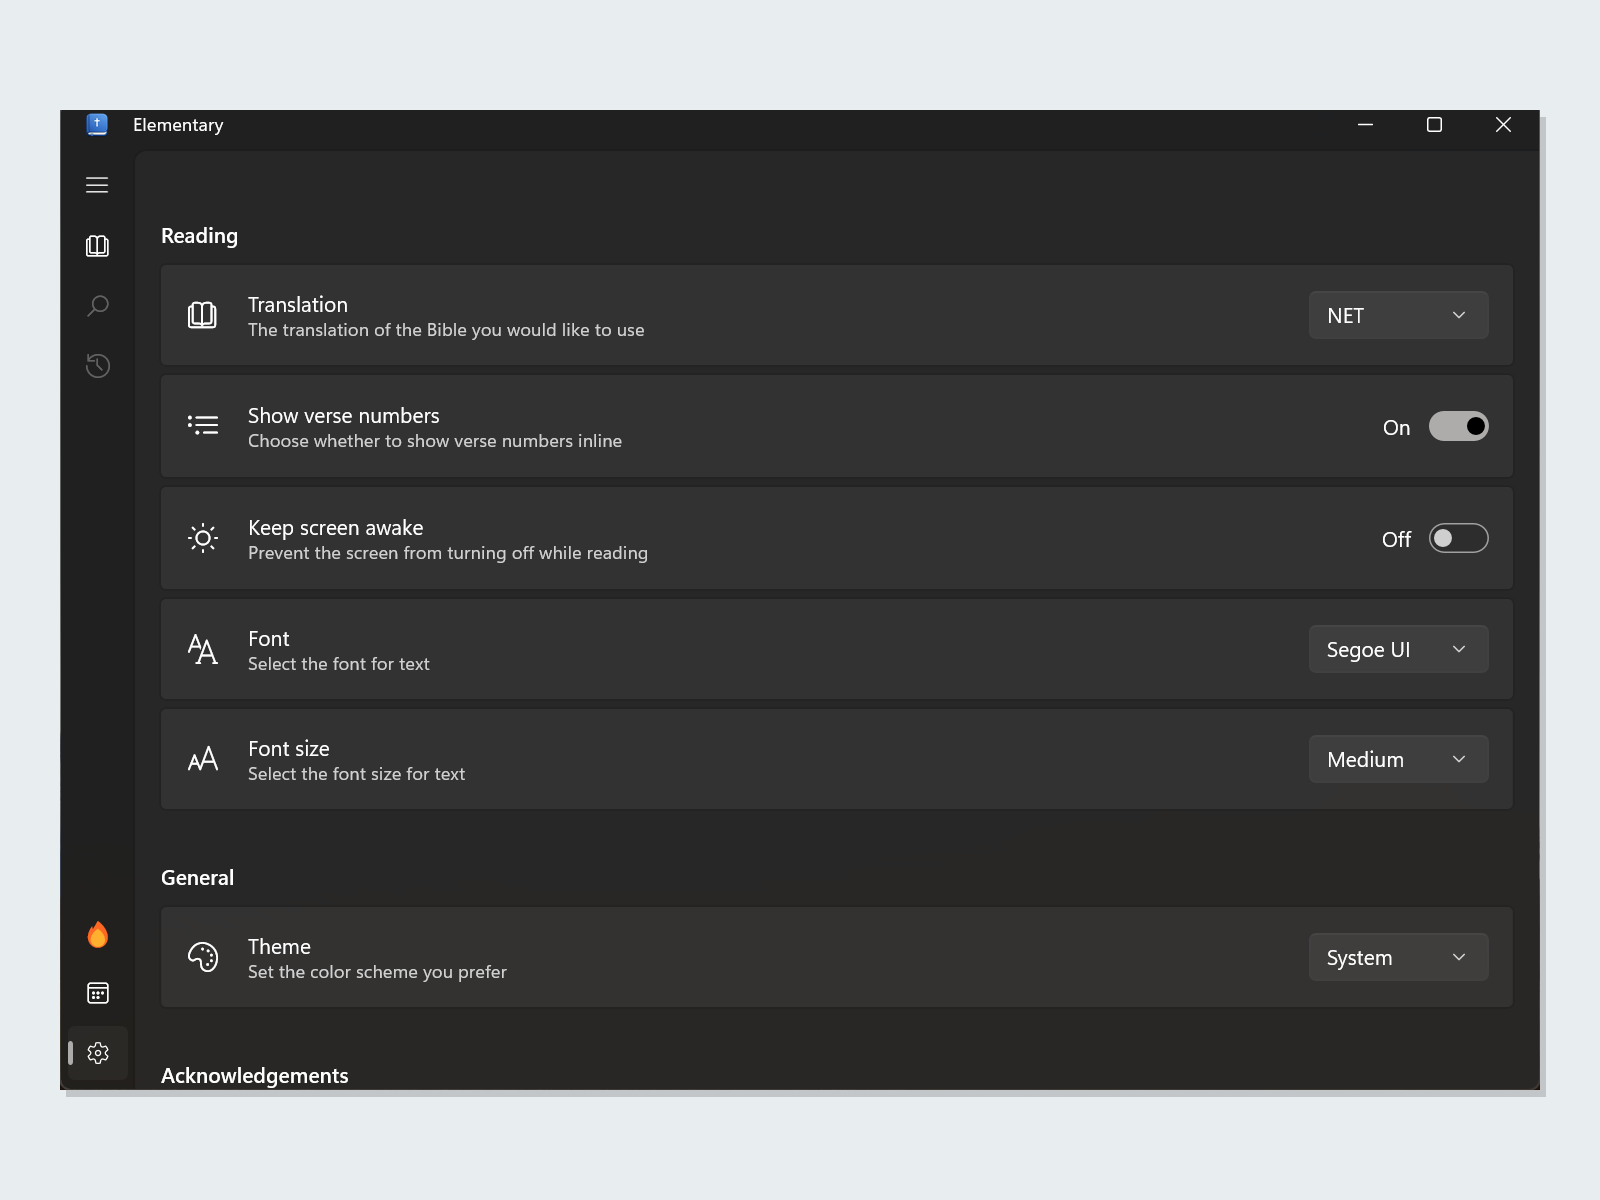
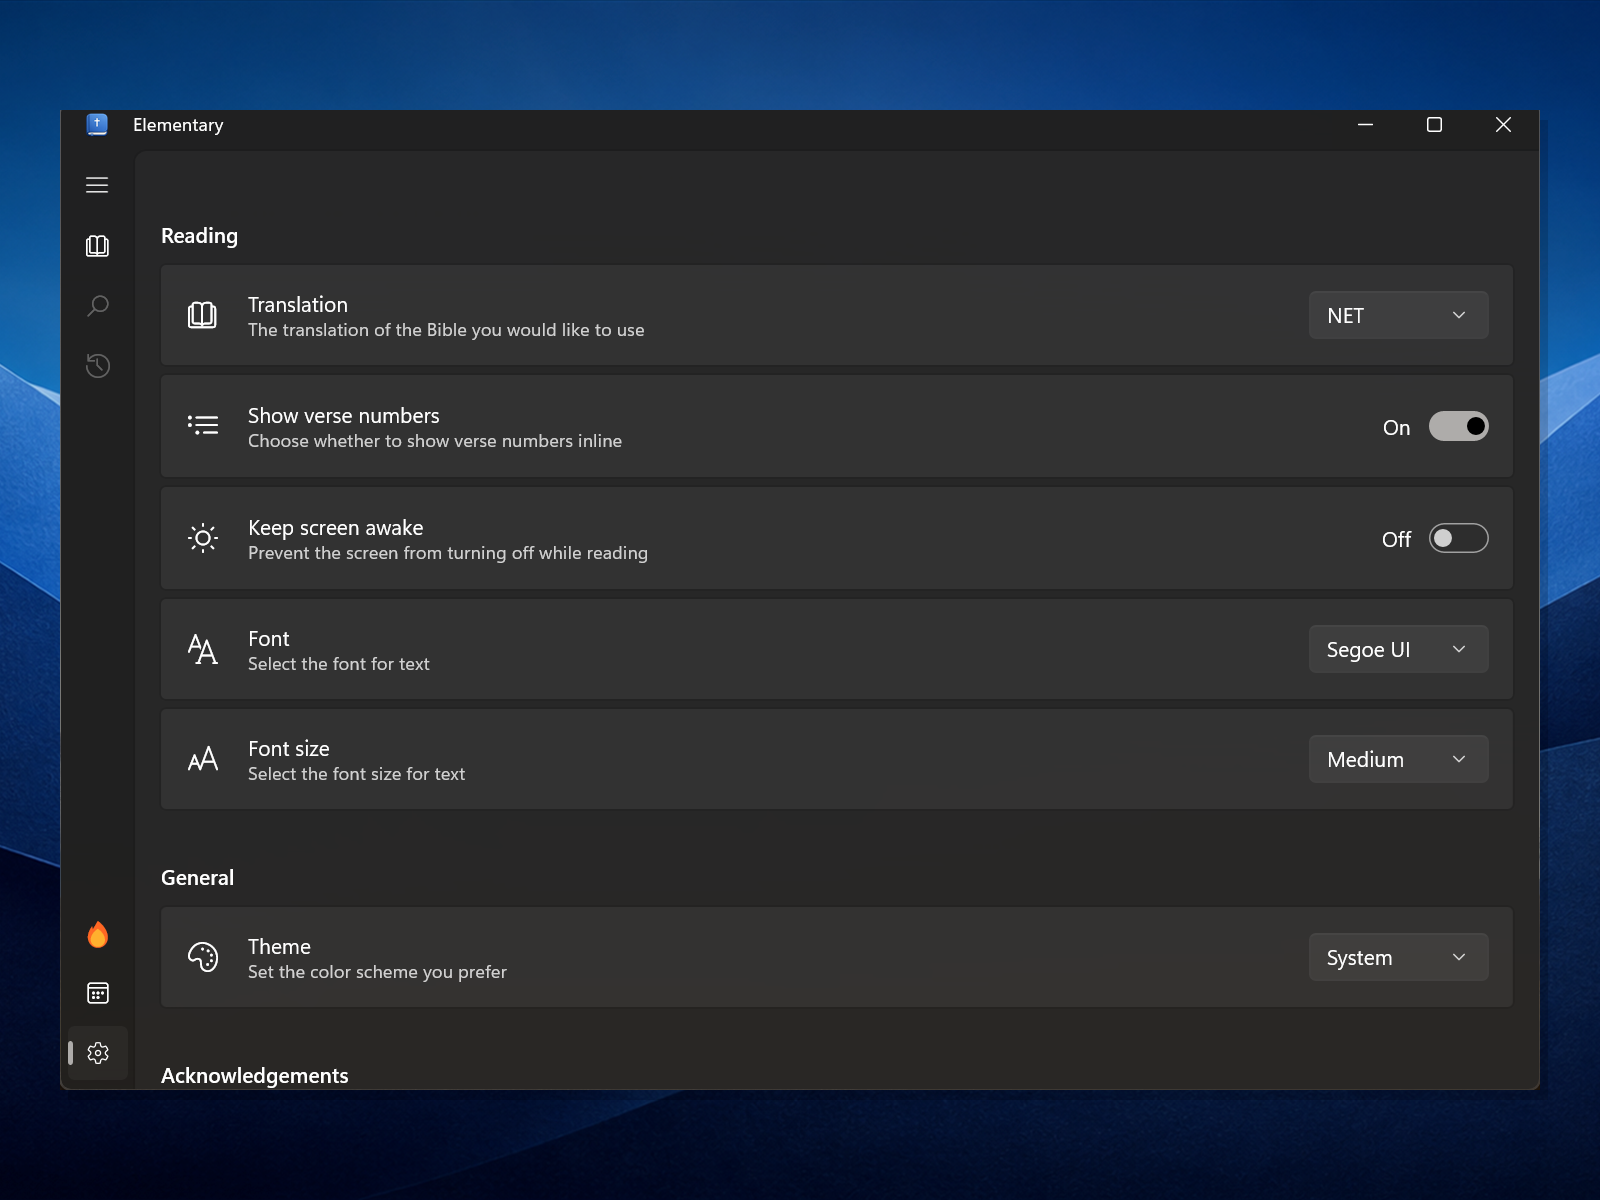
Fixes, store listing, etc

Changed region(s): [[0.0, 0.0, 1.0, 1.0]]

diff --git a/src/Elementary.VerseOfTheDay/Services/VotdImageCompositor.cs b/src/Elementary.VerseOfTheDay/Services/VotdImageCompositor.cs
@@ -94,12 +94,22 @@ namespace Elementary.VerseOfTheDay.Services
             for (var i = 0; i < 3; i++)
             {
                 var startY = NextFloat(random, -0.1f, 1.1f) * height;
+#if NET10_0_OR_GREATER
+                using var pathBuilder = new SKPathBuilder();
+                pathBuilder.MoveTo(-width * 0.15f, startY);
+                pathBuilder.CubicTo(
+                    width * 0.25f, NextFloat(random, -0.2f, 1.2f) * height,
+                    width * 0.65f, NextFloat(random, -0.2f, 1.2f) * height,
+                    width * 1.15f, NextFloat(random, -0.1f, 1.1f) * height);
+                using var path = pathBuilder.Detach();
+#else
                 using var path = new SKPath();
                 path.MoveTo(-width * 0.15f, startY);
                 path.CubicTo(
                     width * 0.25f, NextFloat(random, -0.2f, 1.2f) * height,
                     width * 0.65f, NextFloat(random, -0.2f, 1.2f) * height,
                     width * 1.15f, NextFloat(random, -0.1f, 1.1f) * height);
+#endif
 
                 using var ribbonPaint = new SKPaint
                 {
@@ -181,21 +191,17 @@ namespace Elementary.VerseOfTheDay.Services
             using var textPaint = new SKPaint
             {
                 Color = new SKColor(248, 244, 235),
-                TextSize = fontSize,
-                IsAntialias = true,
-                Typeface = SKTypeface.Default,
-                FilterQuality = SKFilterQuality.High
+                IsAntialias = true
             };
 
             using var shadowPaint = new SKPaint
             {
                 Color = new SKColor(0, 0, 0, 115),
-                TextSize = fontSize,
-                IsAntialias = true,
-                Typeface = SKTypeface.Default
+                IsAntialias = true
             };
+            using var font = new SKFont(SKTypeface.Default, fontSize);
 
-            var lines = WrapText(verse.VerseText, textPaint, textAreaWidth);
+            var lines = WrapText(verse.VerseText, font, textPaint, textAreaWidth);
             float lineHeight = fontSize * 1.35f;
             float totalTextHeight = lines.Count * lineHeight;
 
@@ -206,8 +212,8 @@ namespace Elementary.VerseOfTheDay.Services
             foreach (var line in lines)
             {
                 float shadowOffset = Math.Max(0.75f, fontSize * 0.025f);
-                canvas.DrawText(line, padding + shadowOffset, textStartY + shadowOffset, shadowPaint);
-                canvas.DrawText(line, padding, textStartY, textPaint);
+                DrawText(canvas, line, padding + shadowOffset, textStartY + shadowOffset, font, shadowPaint);
+                DrawText(canvas, line, padding, textStartY, font, textPaint);
                 textStartY += lineHeight;
             }
         }
@@ -258,13 +264,27 @@ namespace Elementary.VerseOfTheDay.Services
             using var refPaint = new SKPaint
             {
                 Color = new SKColor(238, 232, 220, 210),
-                TextSize = refFontSize,
-                IsAntialias = true,
-                Typeface = SKTypeface.Default
+                IsAntialias = true
             };
+            using var refFont = new SKFont(SKTypeface.Default, refFontSize);
 
             float y = height - padding;
-            canvas.DrawText(verse.Reference, padding, y, refPaint);
+            DrawText(canvas, verse.Reference, padding, y, refFont, refPaint);
+        }
+
+        private static void DrawText(
+            SKCanvas canvas,
+            string text,
+            float x,
+            float y,
+            SKFont font,
+            SKPaint paint)
+        {
+#if NET10_0_OR_GREATER
+            canvas.DrawText(text, x, y, SKTextAlign.Left, font, paint);
+#else
+            canvas.DrawText(text, x, y, font, paint);
+#endif
         }
 
         internal static float CalculateFontSize(string text, float textAreaWidth, float textAreaHeight, int imageWidth)
@@ -288,16 +308,17 @@ namespace Elementary.VerseOfTheDay.Services
 
             baseFontSize = Math.Max(minFontSize, Math.Min(baseFontSize, maxFontSize));
 
-            using var tempPaint = new SKPaint { TextSize = baseFontSize };
-            var lines = WrapText(text, tempPaint, textAreaWidth);
+            using var tempPaint = new SKPaint();
+            using var tempFont = new SKFont(SKTypeface.Default, baseFontSize);
+            var lines = WrapText(text, tempFont, tempPaint, textAreaWidth);
             float lineHeight = baseFontSize * 1.35f;
             float totalH = lines.Count * lineHeight;
 
-            while ((totalH > textAreaHeight || HasLineExceedingWidth(lines, tempPaint, textAreaWidth)) && baseFontSize > minFontSize)
+            while ((totalH > textAreaHeight || HasLineExceedingWidth(lines, tempFont, tempPaint, textAreaWidth)) && baseFontSize > minFontSize)
             {
                 baseFontSize -= 1f;
-                tempPaint.TextSize = baseFontSize;
-                lines = WrapText(text, tempPaint, textAreaWidth);
+                tempFont.Size = baseFontSize;
+                lines = WrapText(text, tempFont, tempPaint, textAreaWidth);
                 lineHeight = baseFontSize * 1.35f;
                 totalH = lines.Count * lineHeight;
             }
@@ -305,11 +326,15 @@ namespace Elementary.VerseOfTheDay.Services
             return baseFontSize;
         }
 
-        private static bool HasLineExceedingWidth(IReadOnlyList<string> lines, SKPaint paint, float maxWidth)
+        private static bool HasLineExceedingWidth(
+            IReadOnlyList<string> lines,
+            SKFont font,
+            SKPaint paint,
+            float maxWidth)
         {
             foreach (var line in lines)
             {
-                if (paint.MeasureText(line) > maxWidth)
+                if (MeasureText(line, font, paint) > maxWidth)
                 {
                     return true;
                 }
@@ -318,7 +343,7 @@ namespace Elementary.VerseOfTheDay.Services
             return false;
         }
 
-        private static List<string> WrapText(string text, SKPaint paint, float maxWidth)
+        private static List<string> WrapText(string text, SKFont font, SKPaint paint, float maxWidth)
         {
             var words = text.Split(' ');
             var lines = new List<string>();
@@ -327,7 +352,7 @@ namespace Elementary.VerseOfTheDay.Services
             foreach (var word in words)
             {
                 var test = current.Length > 0 ? $"{current} {word}" : word;
-                if (paint.MeasureText(test) > maxWidth && current.Length > 0)
+                if (MeasureText(test, font, paint) > maxWidth && current.Length > 0)
                 {
                     lines.Add(current.ToString());
                     current.Clear();
@@ -344,6 +369,18 @@ namespace Elementary.VerseOfTheDay.Services
                 lines.Add(current.ToString());
 
             return lines;
+        }
+
+        private static float MeasureText(string text, SKFont font, SKPaint paint)
+        {
+#if NET10_0_OR_GREATER
+            return font.MeasureText(text, paint);
+#else
+            var glyphCount = font.CountGlyphs(text);
+            var glyphs = new ushort[glyphCount];
+            font.GetGlyphs(text, glyphs);
+            return font.MeasureText(new ReadOnlySpan<ushort>(glyphs, 0, glyphCount), paint);
+#endif
         }
     }
 }

diff --git a/store-assets/README.md b/store-assets/README.md
@@ -10,12 +10,12 @@
 - `icon/app-tile-300x300.png` — 300×300
 - `hero/elementary-super-hero-1920x1080.png` — 1920×1080
 
-The gallery images show direct captures of the running UWP app centered on a plain neutral wallpaper canvas. The app UI is unmodified; no marketing copy, extra logos, device frames, simulated UI, taskbar, or desktop clutter were added.
+The gallery images show direct captures of the running UWP app centered over the matching blue hero artwork. The app UI is unmodified; no marketing copy, extra logos, device frames, simulated UI, taskbar, or desktop clutter were added.
 
-Run `Capture-StoreScreenshots.ps1` while Elementary is open to reproduce the five gallery captures. The script centers the live app window in the primary display's working area, navigates through the real app with Windows UI Automation, trims the transparent Windows shadow that can reveal the desktop, and writes upload-ready 1600×1200 PNG files.
+Run `Capture-StoreScreenshots.ps1` while Elementary is running to reproduce the five gallery captures. The script centers the live app window in the primary display's working area, navigates the real app using Windows UI Automation, trims the transparent Windows shadow that can reveal the desktop, composites the capture over the hero artwork, and writes upload-ready 1600×1200 PNG files.
 
 The 300×300 tile is copied from the current UWP `Square150x150Logo.scale-200.png` asset and retains its transparent background.
 
-The optional hero is an AI-generated abstract asset created for this review. It was center-cropped and resized deterministically to Microsoft’s required 1920×1080 dimensions. It contains no text, title, UI, device imagery, literal Bible, cross, or other religious symbol.
+The optional hero is an AI-generated abstract asset created for this review. It was center-cropped and resized deterministically to Microsoft’s required 1920×1080 dimensions. It contains no text, title, UI, device imagery, literal Bible, map, or other religious symbol.
 
 Listing copy, captions, and submission notes are in `STORE-LISTING.md`.

diff --git a/store-assets/STORE-LISTING.md b/store-assets/STORE-LISTING.md
@@ -63,7 +63,7 @@ Leave this field blank for the first Store submission. For the first update afte
 
 ## Screenshot order and captions
 
-All screenshots use unmodified captures of the running app, centered on a plain neutral wallpaper background at 1600×1200. The taskbar and desktop clutter are excluded, and the app UI contains no added logos or marketing overlays.
+All screenshots use unmodified captures of the running app, centered on the matching blue hero artwork at 1600×1200. The taskbar and desktop clutter are excluded, and the app UI contains no added logos or marketing overlays.
 
 1. `gallery/01-reader.png`
    Read offline in a focused, distraction-free view designed for comfortable time in Scripture.
